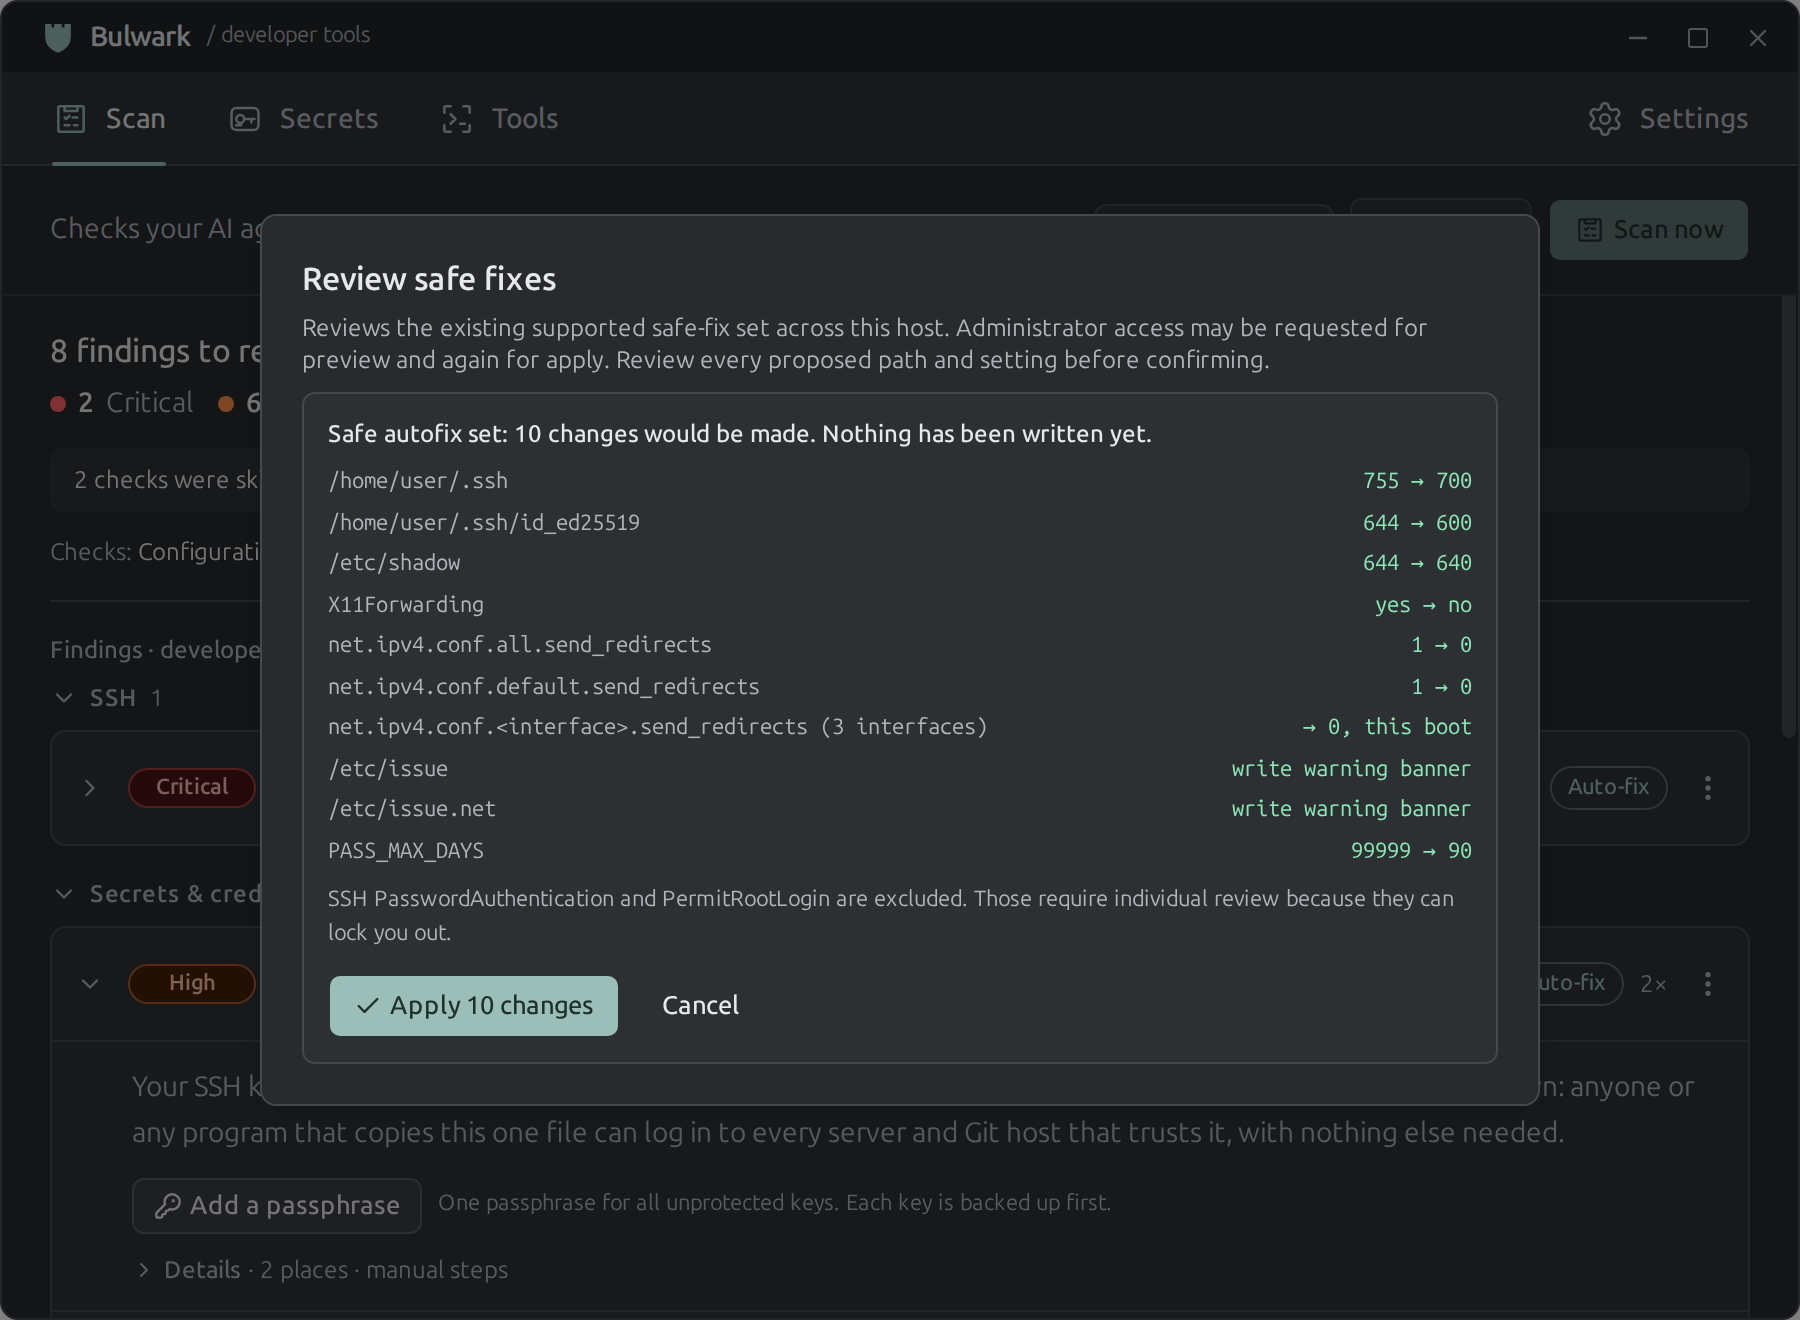
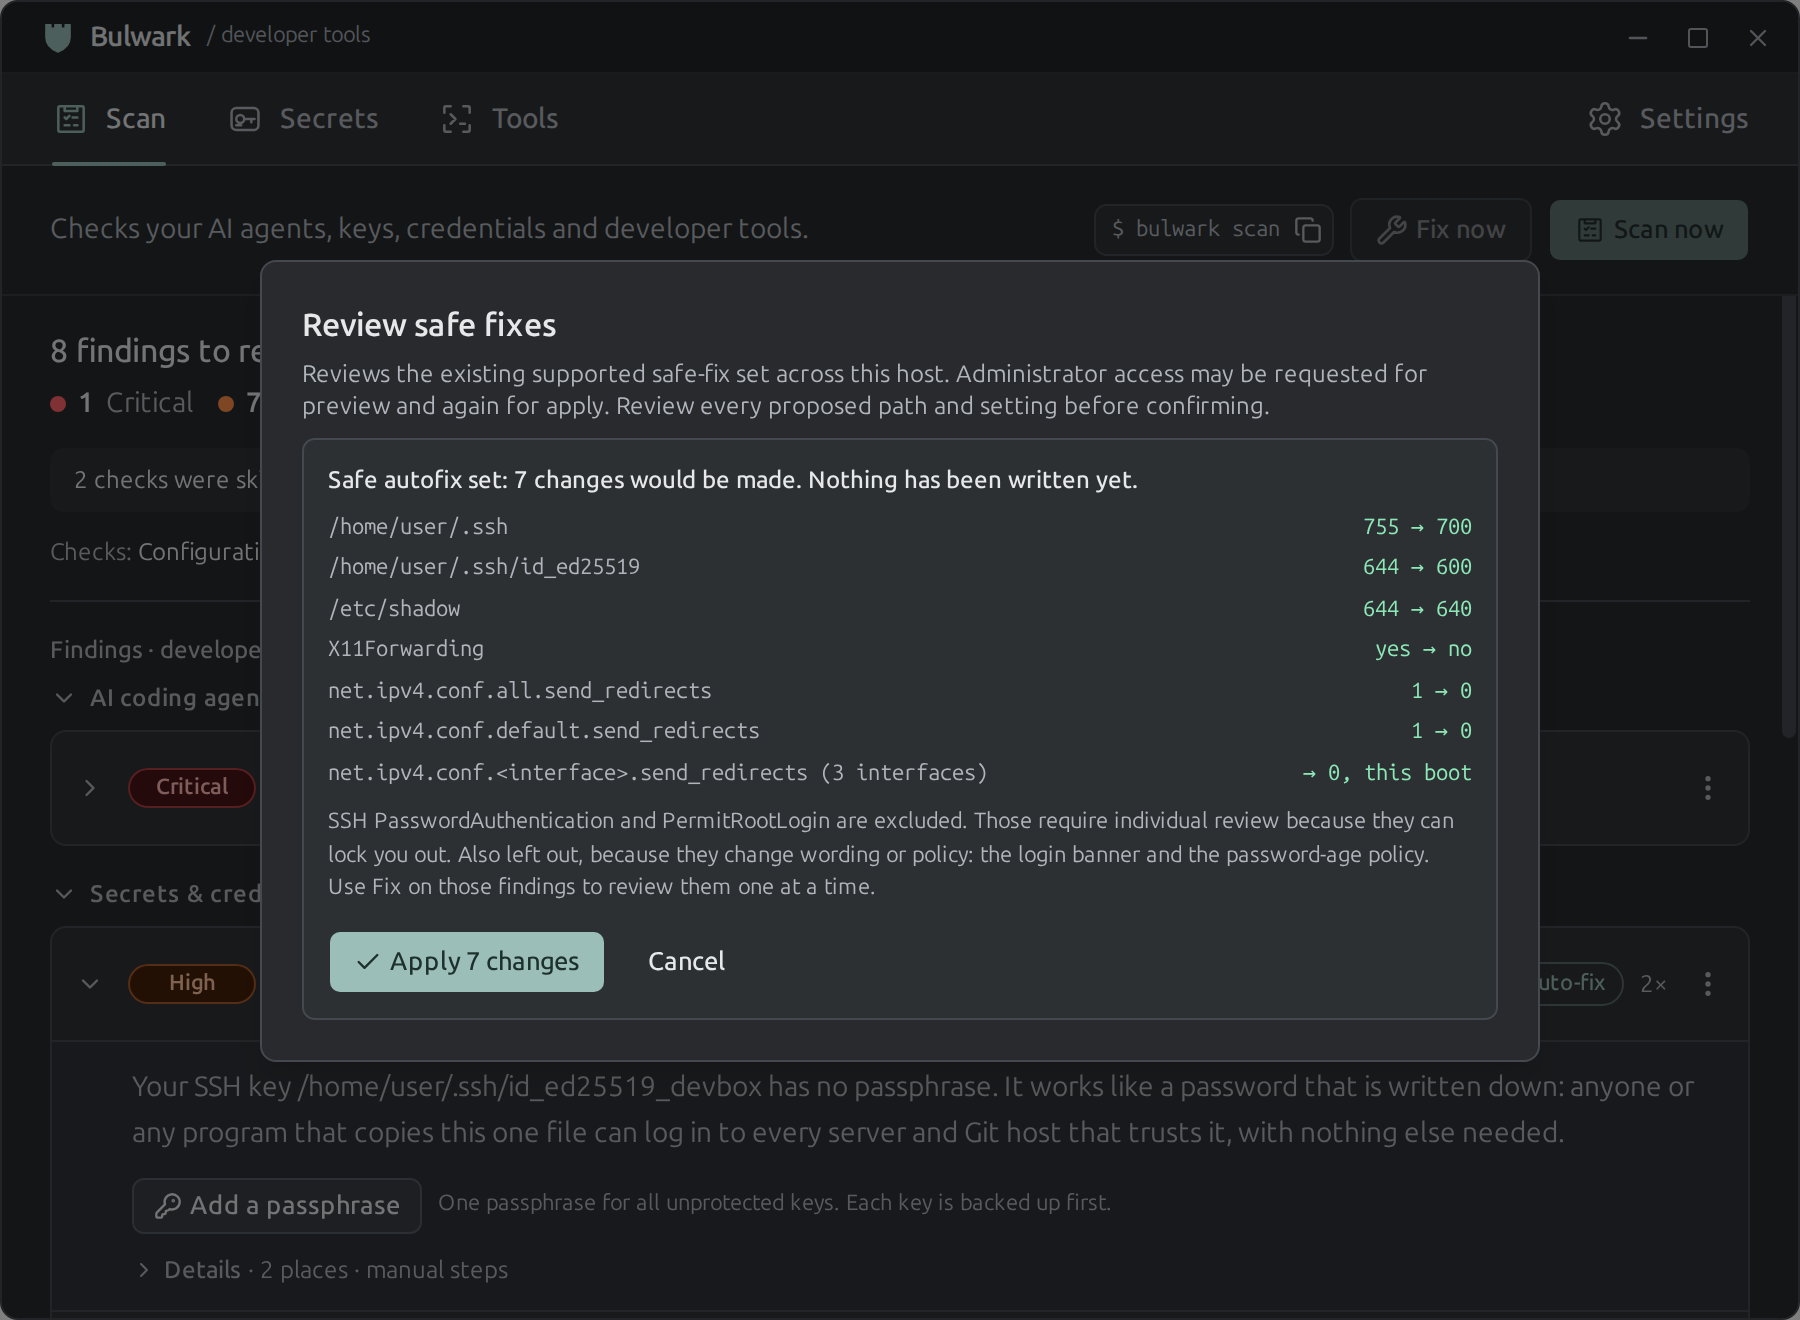
fix(app): the bulk-fix review names what it leaves out; refresh screenshots
'Fix all safe issues' runs the CLI's 'fix all', which no longer applies
the login banner and password-age fixes. The review now says those two
were left out because they change wording or policy, and that Fix on each
finding reviews them one at a time.

The mock data behind the screenshots had drifted from the rules: SSH
password logins and the systemd tunnel check shown as critical (they are
high), project hooks shown as high (critical), and a bulk-fix preview that
still included the banner and password-age changes. Screenshots are
re-captured from the corrected data.

diff --git a/apps/bulwark-app/src/components/FixActions.tsx b/apps/bulwark-app/src/components/FixActions.tsx
@@ -235,9 +235,18 @@ export function FixIssueButton({
   );
 }
 
+/** What the bulk set found to do and left out, in words (see `CombinedFixReport.not_included`). */
+function leftOut(report: CombinedFixReport | null): string[] {
+  const lines = report?.not_included ?? [];
+  const names: string[] = [];
+  if (lines.some((l) => l.startsWith("fix banner"))) names.push("the login banner");
+  if (lines.some((l) => l.startsWith("fix login-defs"))) names.push("the password-age policy");
+  return names;
+}
+
 /**
  * "Fix all safe issues" — the whole mechanical remediation set in one pass: `~/.ssh` permissions,
- * sensitive `/etc` permissions, and the non-lockout sshd directives.
+ * sensitive `/etc` permissions, the non-lockout sshd directives and kernel network settings.
  *
  * The two lockout-risky auth directives are excluded, matching `bulwarkctl fix all`, where they sit
  * behind `--include-auth`. That exclusion is enforced in the backend (this button has no way to
@@ -397,6 +406,13 @@ export function FixNowButton({
               <>
                 SSH PasswordAuthentication and PermitRootLogin are excluded. Those require individual review
                 because they can lock you out.
+                {leftOut(report).length > 0 && (
+                  <>
+                    {" "}
+                    Also left out, because they change wording or policy: {leftOut(report).join(" and ")}. Use
+                    Fix on those findings to review them one at a time.
+                  </>
+                )}
               </>
             }
             onApply={() => run(true)}

diff --git a/apps/bulwark-app/src/mocks/tauri/fixtures/findings.ts b/apps/bulwark-app/src/mocks/tauri/fixtures/findings.ts
@@ -20,7 +20,7 @@ export const findings: Finding[] = [
   {
     id: "f-ssh-001",
     rule_id: "BLWK-SSH-001",
-    severity: "critical",
+    severity: "high",
     title: "SSH password authentication is enabled",
     explanation:
       'PasswordAuthentication is set to "yes" in sshd_config, which allows an attacker to ' +
@@ -30,7 +30,7 @@ export const findings: Finding[] = [
   {
     id: "f-persist-001",
     rule_id: "BLWK-PERSIST-001",
-    severity: "critical",
+    severity: "high",
     title: "systemd unit runs a tunneling tool",
     explanation:
       'The systemd unit "sync-helper.service" runs a command referencing a tunneling tool ' +
@@ -163,7 +163,7 @@ export const findings: Finding[] = [
   {
     id: "f-ai-002",
     rule_id: "BLWK-AI-002",
-    severity: "high",
+    severity: "critical",
     title: "Project-supplied Claude Code hooks run shell commands automatically",
     explanation:
       "This settings file defines hooks. Claude Code hooks run shell commands automatically on " +

diff --git a/apps/bulwark-app/src/mocks/tauri/core.ts b/apps/bulwark-app/src/mocks/tauri/core.ts
@@ -829,10 +829,15 @@ const handlers: Record<string, (args: Args) => unknown> = {
       // Never includes the lockout-risky auth directives — mirrors the real `fix all --root-only`.
       sshd: mockSshd(apply, false),
       sysctl: mockSysctl(apply, "BLWK-KERNEL-016"),
-      banner: mockBanner(apply),
-      login_defs: mockLoginDefs(apply, "BLWK-ACCT-002"),
+      // Like the real `fix all`: the banner and password-age fixers are looked at, never applied.
+      banner: null,
+      login_defs: null,
       sshd_error: null,
       errors: [],
+      not_included: [
+        "fix banner: 2 login banner file(s) still hold the distribution's default text. Replace them with a warning banner by running: sudo bulwarkctl fix banner --apply",
+        "fix login-defs: the password-age policy in /etc/login.defs would change (PASS_MAX_DAYS 90). Set it by running: sudo bulwarkctl fix login-defs --apply",
+      ],
       applied: apply,
     };
   },

diff --git a/apps/bulwark-app/e2e/fix-now.spec.ts b/apps/bulwark-app/e2e/fix-now.spec.ts
@@ -10,6 +10,9 @@ test("Fix now reviews and cancels without applying, with busy controls", async (
   await expect(dialog.getByRole("status")).toContainText("no changes are being applied");
   await expect(dialog.getByText(/Nothing has been written yet/)).toBeVisible();
   await expect(dialog.getByText(/PasswordAuthentication and PermitRootLogin are excluded/)).toBeVisible();
+  // Like `bulwarkctl fix all`: the banner and password-age fixes are named, not applied.
+  await expect(dialog.getByText(/left out, because they change wording or policy/)).toBeVisible();
+  await expect(dialog.getByText("PASS_MAX_DAYS", { exact: true })).toHaveCount(0);
   await dialog.getByRole("button", { name: "Cancel", exact: true }).click();
   await expect(dialog).not.toBeVisible();
   await expect(page.getByRole("button", { name: "Scan now", exact: true })).toBeEnabled();

diff --git a/apps/bulwark-app/src/lib/fixes.ts b/apps/bulwark-app/src/lib/fixes.ts
@@ -120,6 +120,9 @@ export interface CombinedFixReport {
   login_defs: LoginDefsReport | null;
   sshd_error: string | null;
   errors?: string[];
+  /** Fixes the bulk set found something to do for and left out, because they change wording or
+   *  policy (`fix banner`, `fix login-defs`). One line each, starting with the fixer's name. */
+  not_included?: string[];
   applied: boolean;
 }
 
